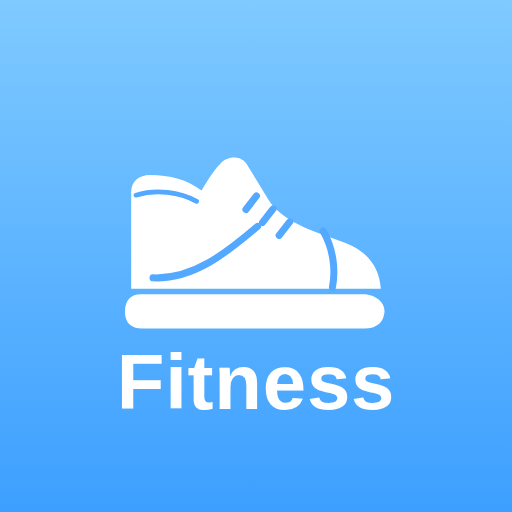
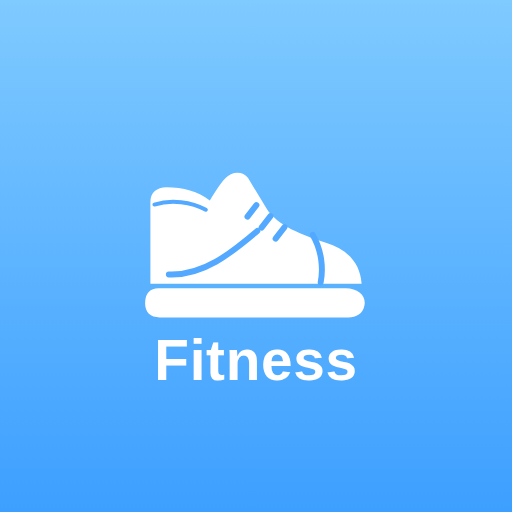
앱 아이콘: 마스커블 아이콘 안전영역 축소(잘림 방지), 아이콘 생성 스크립트 추가

Changed region(s): [[0.2188, 0.2812, 0.7812, 0.8125]]

diff --git a/sw.js b/sw.js
@@ -1,5 +1,5 @@
 // MyFitness 서비스 워커: 앱 파일은 네트워크 우선(최신 반영) + 오프라인 폴백, CDN 자원(3D 라이브러리/모델/폰트)은 캐시 우선
-const SHELL_CACHE = 'mf-shell-v2';
+const SHELL_CACHE = 'mf-shell-v3';
 const CDN_CACHE = 'mf-cdn-v1';                       // 버전이 고정된 CDN URL만 쓰므로 영구 캐시
 const SHELL = ['./', 'index.html', 'style.css', 'app.js', 'body3d.js', 'manifest.webmanifest',
   'favicon.svg', 'favicon.ico', 'apple-touch-icon.png', 'icon-192.png', 'icon-512.png', 'icon-maskable-512.png'];

diff --git a/tools/make_icons.py b/tools/make_icons.py
@@ -1,0 +1,73 @@
+"""MyFitness 아이콘 생성기: favicon.svg/.ico, apple-touch-icon, icon-192/512, icon-maskable-512 를 저장소 루트에 만든다.
+사용: python3 tools/make_icons.py   (playwright + pillow 필요)
+- simple  : 탭용. 운동화만 크게 (작은 크기에서 글씨는 안 읽힘)
+- full    : 홈 화면/앱 아이콘. 운동화 + Fitness
+- maskable: 안드로이드 어댑티브 아이콘용. 가운데 약 2/3만 보이므로 콘텐츠를 60% 안쪽으로 축소
+"""
+import math
+from pathlib import Path
+from playwright.sync_api import sync_playwright
+from PIL import Image
+
+ROOT = Path(__file__).resolve().parent.parent
+BG1, BG2 = '#7fcaff', '#3d9fff'                      # 하늘색 그라데이션
+MASK_SCALE = 0.66                                    # 마스커블: 콘텐츠 축소 비율 (안전영역 안쪽)
+
+
+def sneaker(simple=False):
+    p0, p1 = (244, 194), (326, 258)
+    ang = math.atan2(p1[1] - p0[1], p1[0] - p0[0]) + math.pi / 2
+    laces = ''
+    for t in (0.12, 0.38, 0.64):
+        x = p0[0] + (p1[0] - p0[0]) * t; y = p0[1] + (p1[1] - p0[1]) * t
+        dx, dy = math.cos(ang) * 11, math.sin(ang) * 11
+        laces += f'<path d="M{x - dx:.1f},{y - dy:.1f} L{x + dx:.1f},{y + dy:.1f}"/>'
+    detail = '' if simple else laces + '<path d="M346,238 C360,262 362,290 358,310"/><path d="M106,192 C132,184 162,188 184,200" stroke-width="6"/>'
+    return f'''<g>
+    <path fill="#fff" d="M100,312 L100,188 C100,174 110,166 124,166 C150,166 172,172 190,186 C196,177 204,162 214,152 C222,142 240,140 248,152 L276,198 C292,224 330,238 366,250 C398,260 418,280 420,312 Z"/>
+    <path fill="#fff" d="M92,342 C92,326 100,319 112,319 L396,319 C416,319 428,332 424,346 C422,357 412,363 400,363 L114,363 C100,363 92,355 92,342 Z"/>
+    <g stroke="#52a9ff" stroke-width="{14 if simple else 9}" stroke-linecap="round" fill="none">{detail}<path d="M128,298 C180,300 222,266 262,232"/></g>
+  </g>'''
+
+
+def text(size, y):
+    return (f'<text x="256" y="{y}" text-anchor="middle" font-family="Inter,Helvetica Neue,Arial,DejaVu Sans,sans-serif" '
+            f'font-weight="800" font-size="{size}" letter-spacing="1" fill="#fff">Fitness</text>')
+
+
+def svg(kind, rounded):
+    if kind == 'simple':
+        body = f'<g transform="translate(256,256) scale(1.22) translate(-260,-250)">{sneaker(True)}</g>'
+    elif kind == 'full':
+        body = f'<g transform="translate(-4,-14)">{sneaker()}</g>{text(100, 452)}'
+    else:  # maskable
+        body = (f'<g transform="translate(256,256) scale({MASK_SCALE}) translate(-256,-256)">'
+                f'<g transform="translate(-4,-14)">{sneaker()}</g>{text(86, 444)}</g>')
+    rx = 112 if rounded else 0
+    return (f'<svg xmlns="http://www.w3.org/2000/svg" viewBox="0 0 512 512" width="512" height="512">'
+            f'<defs><linearGradient id="bg" x1="0" y1="0" x2="0" y2="1"><stop offset="0" stop-color="{BG1}"/><stop offset="1" stop-color="{BG2}"/></linearGradient></defs>'
+            f'<rect width="512" height="512" rx="{rx}" fill="url(#bg)"/>{body}</svg>')
+
+
+JOBS = [  # (종류, 둥근모서리, 크기, 출력 파일)
+    ('full', False, 180, 'apple-touch-icon.png'),     # iOS는 자체적으로 모서리를 깎으므로 꽉 찬 사각형
+    ('full', True, 192, 'icon-192.png'),
+    ('full', True, 512, 'icon-512.png'),
+    ('maskable', False, 512, 'icon-maskable-512.png'),  # 꽉 찬 사각형 + 안전영역
+    ('simple', True, 256, '_favicon256.png'),
+]
+
+if __name__ == '__main__':
+    (ROOT / 'favicon.svg').write_text(svg('simple', True))
+    with sync_playwright() as p:
+        b = p.chromium.launch(); pg = b.new_page()
+        for kind, rounded, size, out in JOBS:
+            s = svg(kind, rounded).replace('viewBox="0 0 512 512" width="512" height="512"', f'viewBox="0 0 512 512" width="{size}" height="{size}"', 1)
+            pg.set_viewport_size({'width': size, 'height': size})
+            pg.set_content('<body style="margin:0;background:transparent">' + s + '</body>')
+            pg.screenshot(path=str(ROOT / out), omit_background=True)
+        b.close()
+    tmp = ROOT / '_favicon256.png'
+    Image.open(tmp).convert('RGBA').save(ROOT / 'favicon.ico', sizes=[(16, 16), (32, 32), (48, 48)])
+    tmp.unlink()
+    print('done')

diff --git a/README.md b/README.md
@@ -17,3 +17,6 @@
 - `manifest.webmanifest` + `sw.js`(서비스 워커): 홈 화면에 설치하면 주소창 없는 앱으로 실행, 오프라인에서도 동작
 - 앱 파일은 네트워크 우선(새 버전 바로 반영, 실패/느림 시 캐시), 3D 라이브러리·마네킹 모델·폰트(CDN)는 첫 방문에 캐시
 - 옵션 → `앱 설치`(안드로이드는 버튼, iOS는 안내). 앱 파일 구성이 바뀌면 `sw.js`의 SHELL 목록/캐시 버전을 갱신
+
+## 아이콘
+`python3 tools/make_icons.py` 로 favicon/앱 아이콘 전체를 다시 생성 (마스커블 아이콘은 안드로이드가 가운데 약 2/3만 보여주므로 콘텐츠를 60
